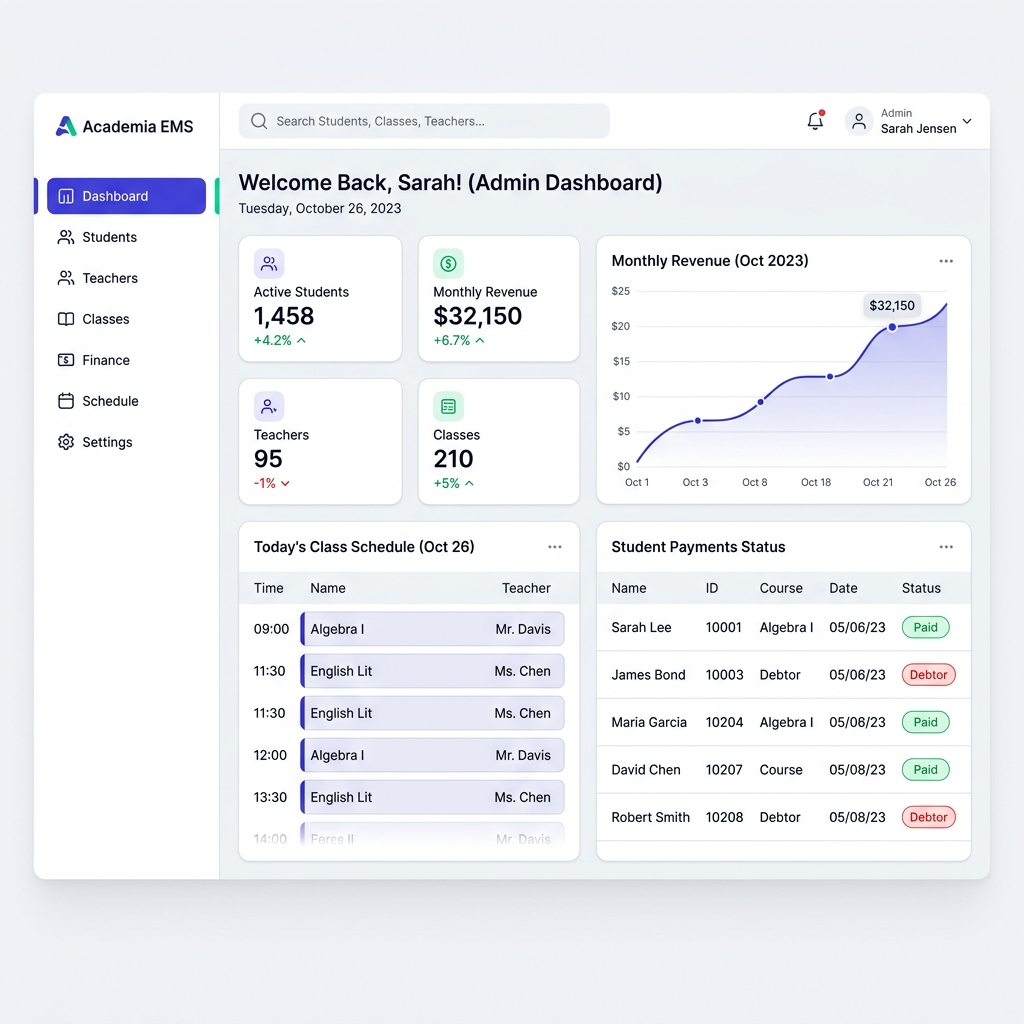
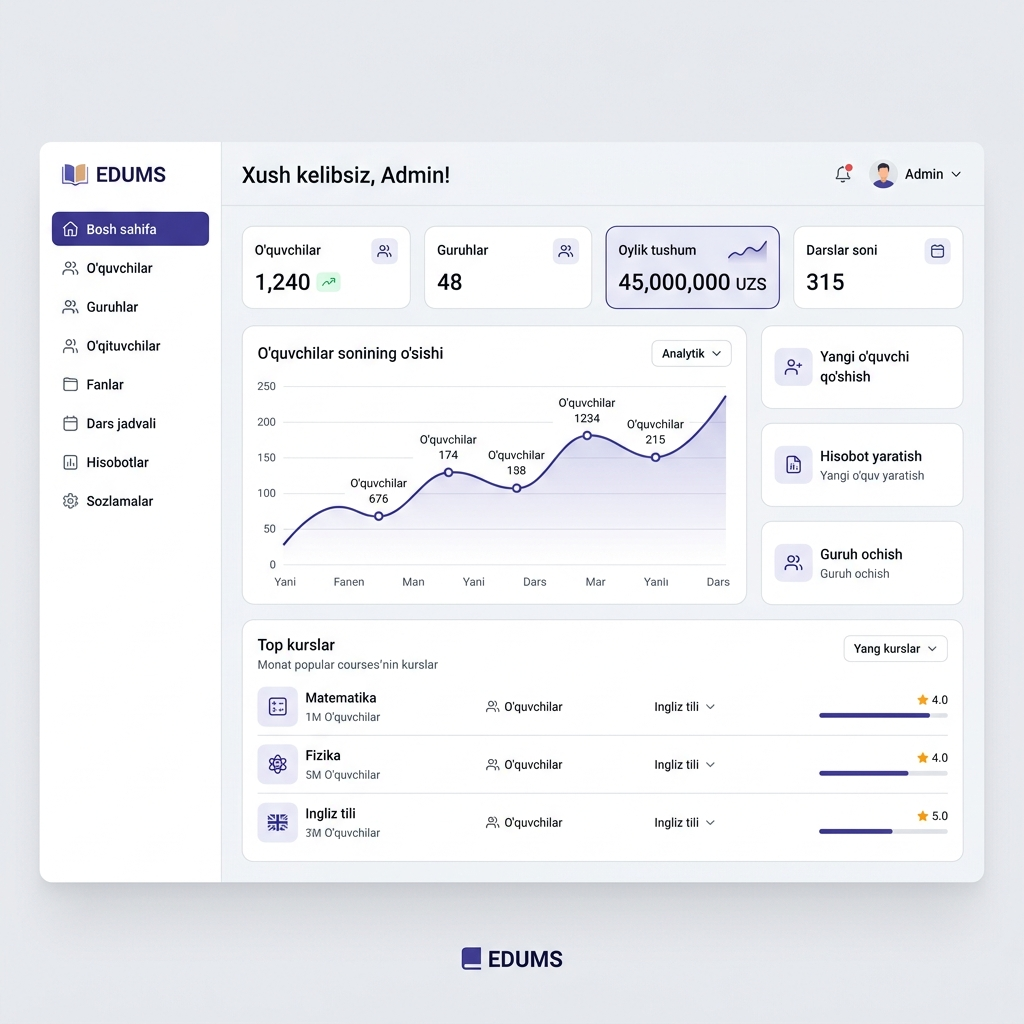
feat: add generated light mode landing page images in Uzbek language

diff --git a/src/components/landing/images.ts b/src/components/landing/images.ts
@@ -11,13 +11,13 @@ export type LandingImage = 'hero' | 'finance' | 'learning' | 'leads' | 'team';
  */
 export const LANDING_IMAGES: Record<LandingImage, string | null> = {
     /** Hero ostidagi katta rasm — dashboard. */
-    hero: null,
+    hero: '/landing/hero.png',
     /** Moliya bo'limi — kassa yoki qarzdorlar sahifasi. */
-    finance: null,
+    finance: '/landing/finance.png',
     /** O'quv jarayoni — guruh sahifasi (davomat) yoki dars jadvali. */
-    learning: null,
+    learning: '/landing/learning.png',
     /** Lidlar sahifasi. */
-    leads: null,
+    leads: '/landing/leads.png',
     /** Jamoa — oyliklar yoki rollar sahifasi. */
-    team: null,
+    team: '/landing/team.png',
 };
